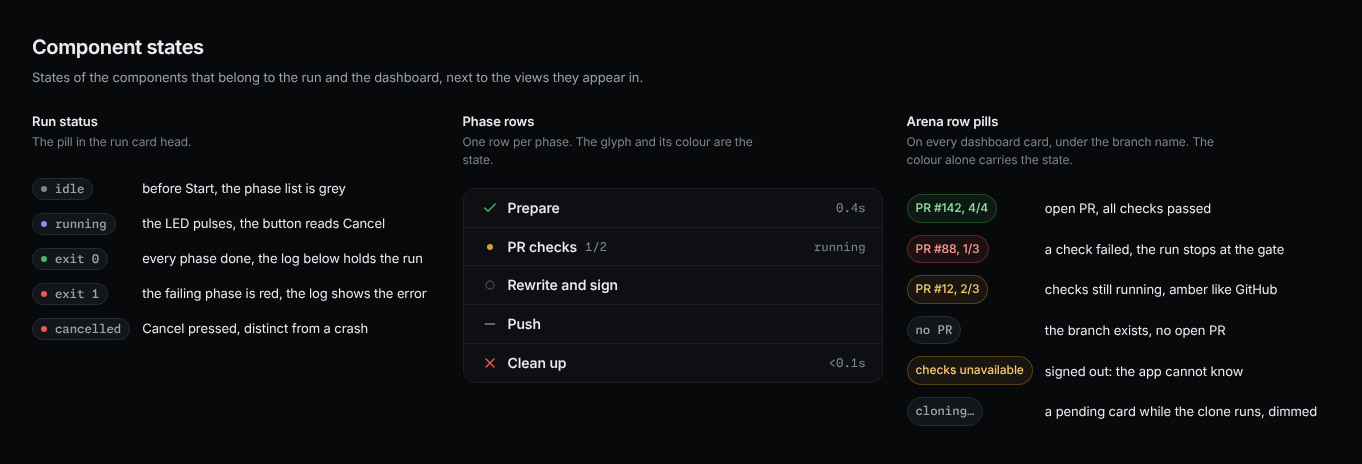
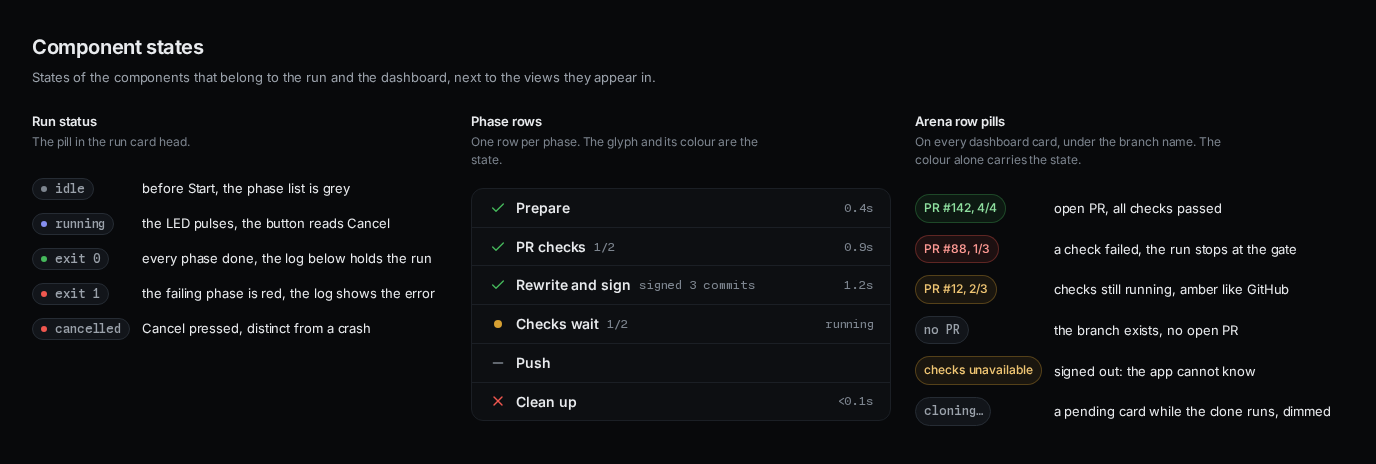
docs: fix the README drift and skip the signing tests without gpg

diff --git a/docs/boards/states.html b/docs/boards/states.html
@@ -22,11 +22,14 @@
 <li class="phase" data-state="done">
 <div class="phase-head"><span class="phase-ico"><span class="ico-svg" data-icon="check" aria-hidden="true"></span></span><span class="phase-name">Prepare</span><span class="phase-sub"></span><span class="phase-time">0.4s</span></div>
 </li>
-<li class="phase" data-state="run">
-<div class="phase-head"><span class="phase-ico"><span class="ico-svg" aria-hidden="true"><i class="dot"></i></span></span><span class="phase-name">PR checks</span><span class="phase-sub">1/2</span><span class="phase-time">running</span></div>
+<li class="phase" data-state="done">
+<div class="phase-head"><span class="phase-ico"><span class="ico-svg" data-icon="check" aria-hidden="true"></span></span><span class="phase-name">PR checks</span><span class="phase-sub">1/2</span><span class="phase-time">0.9s</span></div>
 </li>
-<li class="phase" data-state="idle">
-<div class="phase-head"><span class="phase-ico"><span class="ico-svg idle" data-icon="circle-small" aria-hidden="true"></span></span><span class="phase-name">Rewrite and sign</span><span class="phase-sub"></span><span class="phase-time"></span></div>
+<li class="phase" data-state="done">
+<div class="phase-head"><span class="phase-ico"><span class="ico-svg" data-icon="check" aria-hidden="true"></span></span><span class="phase-name">Rewrite and sign</span><span class="phase-sub">signed 3 commits</span><span class="phase-time">1.2s</span></div>
+</li>
+<li class="phase" data-state="run">
+<div class="phase-head"><span class="phase-ico"><span class="ico-svg" aria-hidden="true"><i class="dot"></i></span></span><span class="phase-name">Checks wait</span><span class="phase-sub">1/2</span><span class="phase-time">running</span></div>
 </li>
 <li class="phase" data-state="skip">
 <div class="phase-head"><span class="phase-ico"><span class="ico-svg" data-icon="minus" aria-hidden="true"></span></span><span class="phase-name">Push</span><span class="phase-sub"></span><span class="phase-time"></span></div>

diff --git a/tests/test_engine.py b/tests/test_engine.py
@@ -64,6 +64,7 @@ def test_logging_format(world: World) -> None:
   assert res.says("scanning... ")
 
 
+@needs_gpg
 def test_strip_rewrites_identity_dates_and_messages(world: World) -> None:
   res = world.cleanup("strip")
   assert res.rc == 0
@@ -94,6 +95,7 @@ def test_strip_rewrites_identity_dates_and_messages(world: World) -> None:
   assert world.git("rev-list", "--count", "HEAD") == str(SEED_COMMITS)
 
 
+@needs_gpg
 def test_strip_is_idempotent_and_check_reports_clean(world: World) -> None:
   world.cleanup("strip")
   assert world.cleanup("strip", "--check").rc == 0
@@ -103,6 +105,7 @@ def test_strip_is_idempotent_and_check_reports_clean(world: World) -> None:
   assert len(list(world.tmp.glob(BUNDLE_GLOB))) == 1
 
 
+@needs_gpg
 def test_full_run_from_the_default_branch(world: World) -> None:
   world.git("checkout", "-q", "main")
   world.git("reset", "-q", "--hard", "origin/main", check=False)
@@ -127,6 +130,7 @@ def test_full_run_from_the_default_branch(world: World) -> None:
   assert "arena-agent" not in world.git("log", "--format=%an", "origin/main")
 
 
+@needs_gpg
 def test_second_run_is_a_clean_no_op(world: World) -> None:
   res = world.cleanup("-K")
   assert res.rc == 0, res.text
@@ -137,6 +141,7 @@ def test_second_run_is_a_clean_no_op(world: World) -> None:
   assert res.strays() == []
 
 
+@needs_gpg
 def test_pr_gate(world: World) -> None:
   world.git("checkout", "-q", "arena/session-1")
   world.agent_commit("chore: bot work 2")
@@ -325,6 +330,7 @@ def test_doctor(world: World) -> None:
   assert res.says("gh authenticated")
 
 
+@needs_gpg
 def test_force_push_lease_protects_the_default_branch(world: World) -> None:
   real_git = shutil.which("git")
   flag = world.root / "sabotaged"
@@ -396,6 +402,7 @@ def test_no_lease_push_lands_when_the_default_branch_moved(world: World) -> None
   world.git("checkout", "-q", "main")
 
 
+@needs_gpg
 def test_upstream_diverged_with_different_content(world: World) -> None:
   sibling = world.root / "sibling"
   world.git("clone", "-q", str(world.origin), str(sibling), cwd=world.root)
@@ -458,6 +465,7 @@ def test_upstream_diverged_with_different_content(world: World) -> None:
   assert world.git_rc("cat-file", "-e", "origin/main:local-only.txt") != 0
 
 
+@needs_gpg
 def test_branch_main_cleans_the_default_branch_in_place(world: World) -> None:
   mode = world.root / "mode.git"
   work = world.root / "mode-work"
@@ -518,6 +526,7 @@ def test_branch_main_cleans_the_default_branch_in_place(world: World) -> None:
   assert res.says("branch not found: no-such-branch")
 
 
+@needs_gpg
 def test_delete_branch_drops_the_arena_branch_once_published(world: World) -> None:
   work = world.root / "mode-work"
   world.git("checkout", "-q", "-b", "arena/mode-test", cwd=work)
@@ -603,6 +612,7 @@ USAGE_ERROR = 2
 STRIP_CHECK_CODES = {0, 7}
 
 
+@needs_gpg
 def test_help_screen_and_shorthands(world: World) -> None:
   res = world.cleanup("--help")
   assert res.rc == 0
@@ -641,6 +651,7 @@ def test_help_screen_and_shorthands(world: World) -> None:
   )
 
 
+@needs_gpg
 def test_blacklist_claims_a_bare_arena_author(world: World) -> None:
   world.git("checkout", "-q", "main")
   world.git("checkout", "-q", "-b", "arena/bl-check", "main")
@@ -670,6 +681,7 @@ def test_blacklist_claims_a_bare_arena_author(world: World) -> None:
   world.git("branch", "-q", "-D", "arena/bl-check")
 
 
+@needs_gpg
 def test_claim_rules_come_from_git_config(world: World) -> None:
   world.git("checkout", "-q", "main")
   world.git("checkout", "-q", "-b", "arena/rules-check", "main")
@@ -716,6 +728,7 @@ def test_superseded_check_runs(world: World) -> None:
   assert res.says('check "test": FAILURE')
 
 
+@needs_gpg
 def test_local_arena_branch_is_deleted_once_the_run_is_done(world: World) -> None:
   world.git("checkout", "-q", "main")
   world.git("checkout", "-q", "-b", "arena/cleanup-default", "main")
@@ -759,6 +772,7 @@ def test_local_arena_branch_is_deleted_once_the_run_is_done(world: World) -> Non
   assert "arena/dropboth" not in world.remote_heads()
 
 
+@needs_gpg
 def test_uncommitted_changes(world: World) -> None:
   world.git("checkout", "-q", "main")
   world.git("fetch", "-q", "--prune", "origin")
@@ -811,6 +825,7 @@ def test_uncommitted_changes(world: World) -> None:
   world.git("fetch", "-q", "--prune", "origin")
 
 
+@needs_gpg
 def test_local_arena_branch_is_the_pre_cleanup_copy(world: World) -> None:
   world.git("checkout", "-q", "main")
   world.only_arena()
@@ -836,6 +851,7 @@ def test_local_arena_branch_is_the_pre_cleanup_copy(world: World) -> None:
   world.git("branch", "-q", "-D", "arena/stale-copy", check=False)
 
 
+@needs_gpg
 def test_multiple_origin_arena_branches(world: World) -> None:
   world.git("checkout", "-q", "main")
   world.git("reset", "-q", "--hard", "origin/main")
@@ -899,6 +915,7 @@ def test_multiple_origin_arena_branches(world: World) -> None:
   world.git("fetch", "-q", "--prune", "origin")
 
 
+@needs_gpg
 def test_divergence_prompt_answered_by_hand(world: World) -> None:
   sibling = world.root / "sibling"
   world.git("checkout", "-q", "main")
@@ -1011,6 +1028,7 @@ def test_divergence_prompt_answered_by_hand(world: World) -> None:
   world.git("branch", "-q", "-D", "arena/div-prompt", check=False)
 
 
+@needs_gpg
 def test_default_branch_already_absorbed_the_branch(world: World) -> None:
   world.git("checkout", "-q", "main")
   world.only_arena()
@@ -1070,6 +1088,7 @@ def test_default_branch_already_absorbed_the_branch(world: World) -> None:
   assert world.git_rc("merge-base", "--is-ancestor", maint_sha, "origin/main") != 0
 
 
+@needs_gpg
 def test_push_guard_for_a_maintenance_commit_on_main(world: World) -> None:
   world.git("checkout", "-q", "main")
   world.git("checkout", "-q", "-b", "arena/new-work", "main")
@@ -1134,6 +1153,7 @@ AGENT = "arena-agent <agent@arena.ai>"
 REWRITE_NEEDED = 7
 
 
+@needs_gpg
 @needs_filter_repo
 def test_path_removes_a_directory_from_history_and_tags_follow(world: World) -> None:
   world.git("checkout", "-q", "main")
@@ -1199,6 +1219,7 @@ def test_path_removes_a_directory_from_history_and_tags_follow(world: World) -> 
   assert world.cleanup("strip", "-p", "site/uploads", "--keep-empty").rc == USAGE_ERROR
 
 
+@needs_gpg
 @needs_filter_repo
 def test_path_with_run_publishes_the_cleaned_tree_and_moves_tags(world: World) -> None:
   origin = world.origin

diff --git a/README.md b/README.md
@@ -127,7 +127,7 @@ empty go. Signatures do not survive it, so the push pass re-signs the branch
 it pushes.
 
 Tags that pointed into rewritten commits move with them, force-pushed with a
-lease. **Don't move tags** leaves them and warns.
+lease. Unchecked, **Update Tags** leaves them and warns.
 
 `Ctrl`/`Cmd` + `Enter` starts the selected command. On a phone the same page
 stacks into one column, and the primary actions stick to the bottom.
@@ -188,12 +188,12 @@ Browser checks need Playwright: `uv sync --group qa`, then `uv run playwright
 install chromium`, or a Chromium of your own.
 
 ```console
-uv run pytest tests/e2e                           # spacing audit, history depth, log clock
+uv run pytest tests/e2e                           # the browser checks of the UI
 uv run scripts/walk.py --out /tmp/walk            # press every control, one screenshot per step
 ```
 
-Four workflows run on GitHub. `ci.yml` runs the lint, format, Markdown, and
-pytest steps plus the spacing audit. `pr-check.yml` holds PRs to the
+Four workflows run on GitHub. `ci.yml` runs the lint, format, Markdown,
+nemoizer, and pytest steps. `pr-check.yml` holds PRs to the
 contract in `scripts/check_pr.py`. `container-scan.yml` prints a Trivy report,
 and `docker.yml` publishes the image.
 

diff --git a/CHANGELOG.md b/CHANGELOG.md
@@ -21,6 +21,8 @@ and the project uses [Semantic Versioning](https://semver.org/spec/v2.0.0.html).
 
 - The PR checks steps count the checks GitHub added during the wait, so an
   engine log with a frozen total still reads the full count.
+- README names the Update Tags option, the browser checks, and the CI steps
+  as they are. The engine tests that sign skip without gpg.
 
 ## [0.3.15] - 2026-10-26
 
